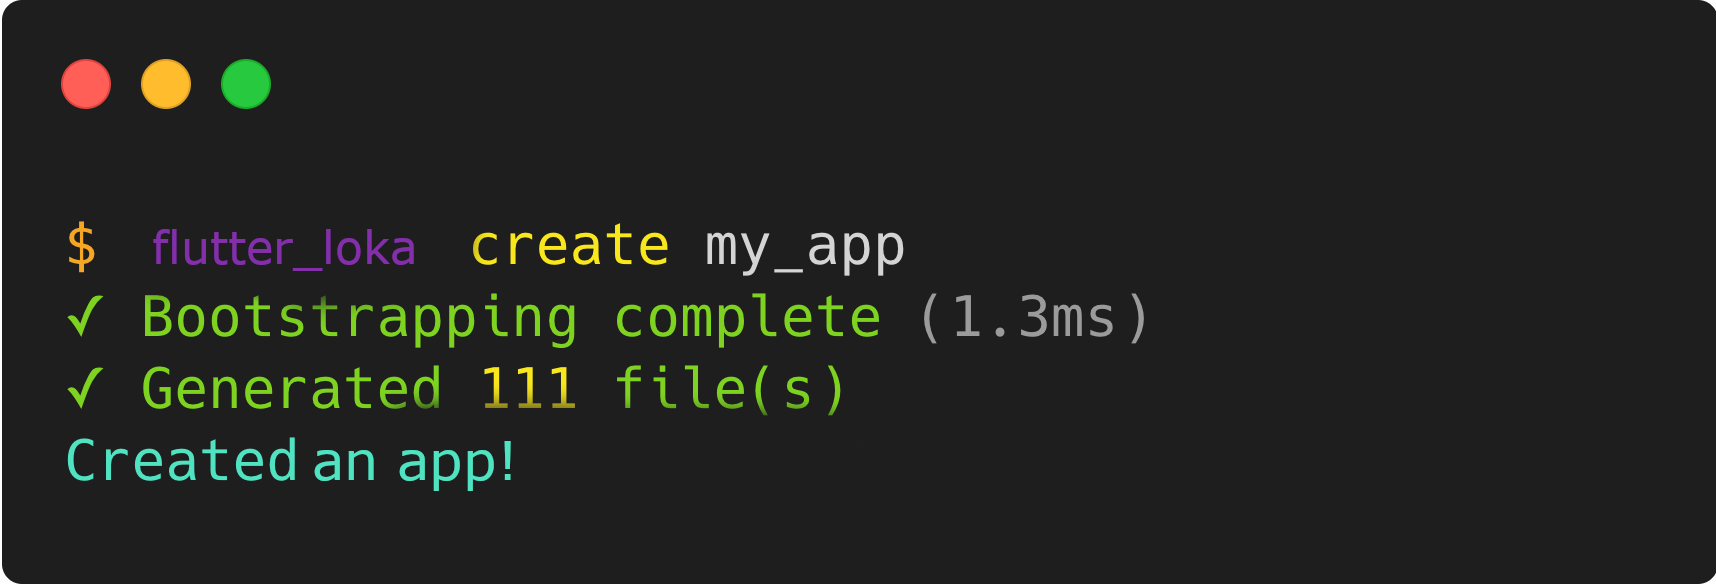
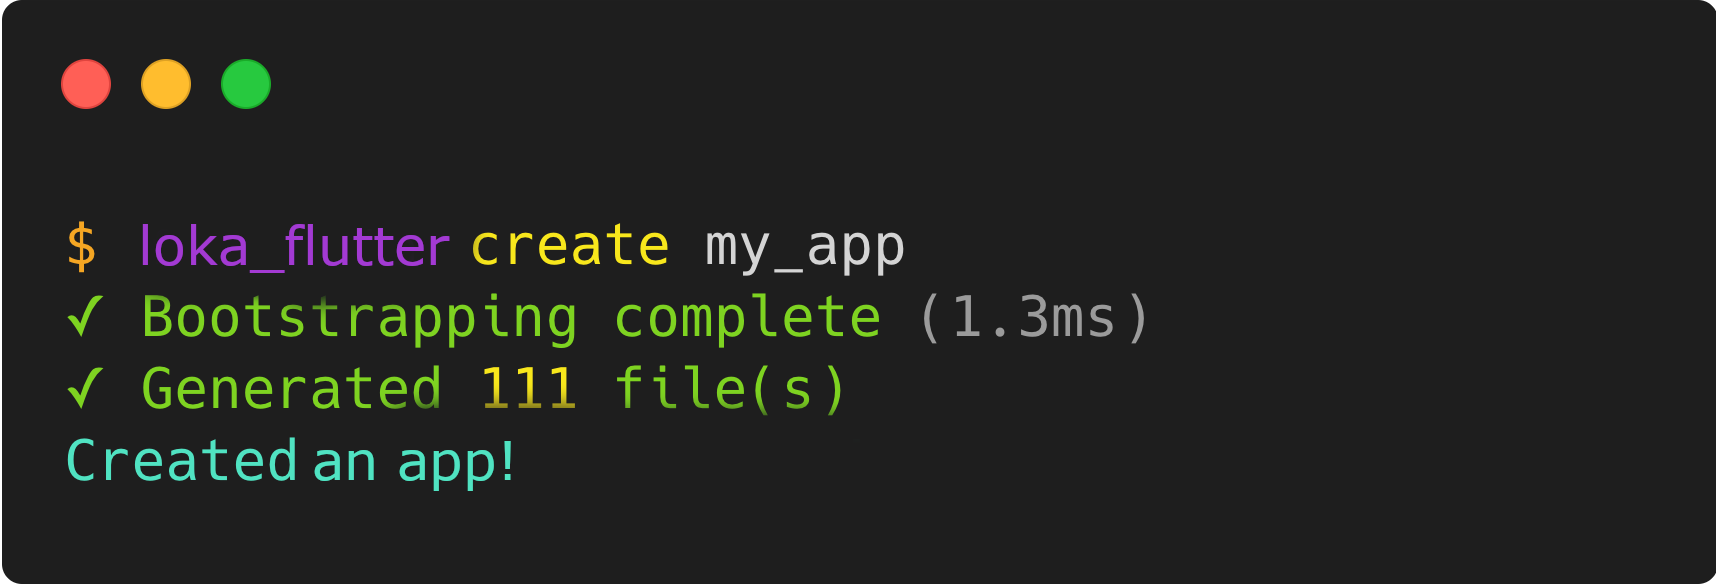
readme image fix

Changed region(s): [[0.0618, 0.3699, 0.278, 0.4623]]

diff --git a/test/src/commands/create/create_test.dart b/test/src/commands/create/create_test.dart
@@ -19,7 +19,7 @@ const expectedUsage = [
   // ignore: no_adjacent_strings_in_list
   'Creates a new project in the specified directory.\n'
       '\n'
-      'Usage: flutter_loka create <project name>\n'
+      'Usage: loka_flutter create <project name>\n'
       '-h, --help                    Print this usage information.\n'
       '''-o, --output-directory        The desired output directory when creating a new project.\n'''
       '    --desc                    The description for this new project.\n'
